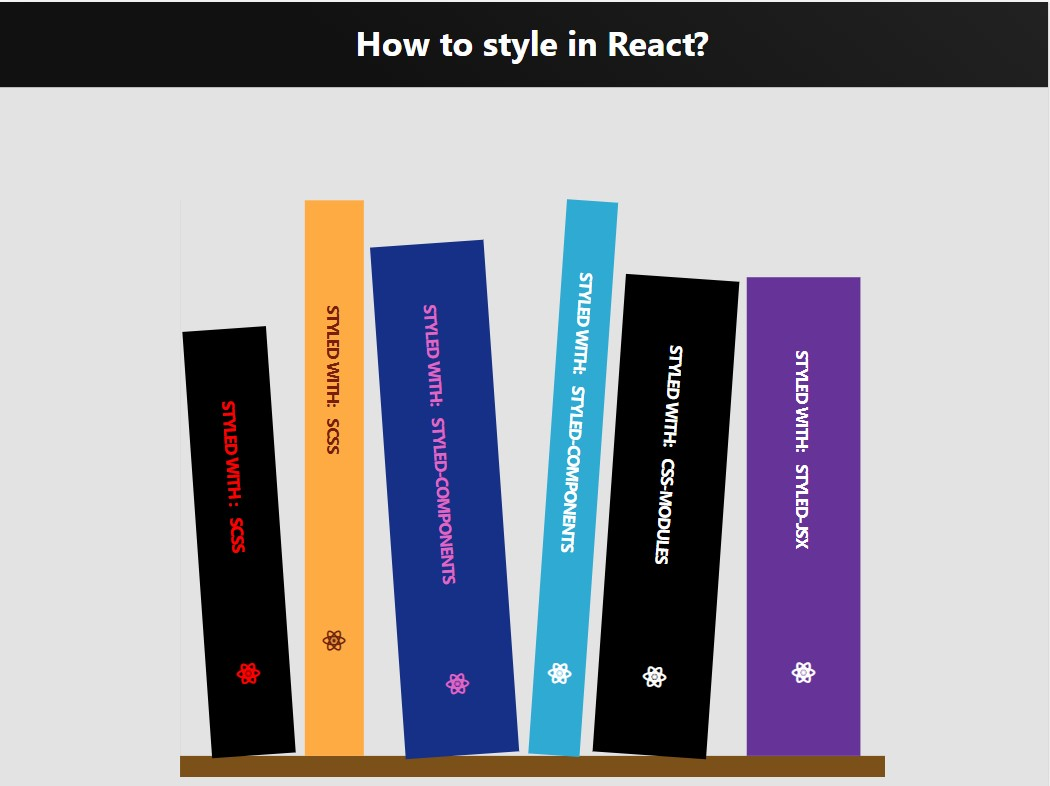
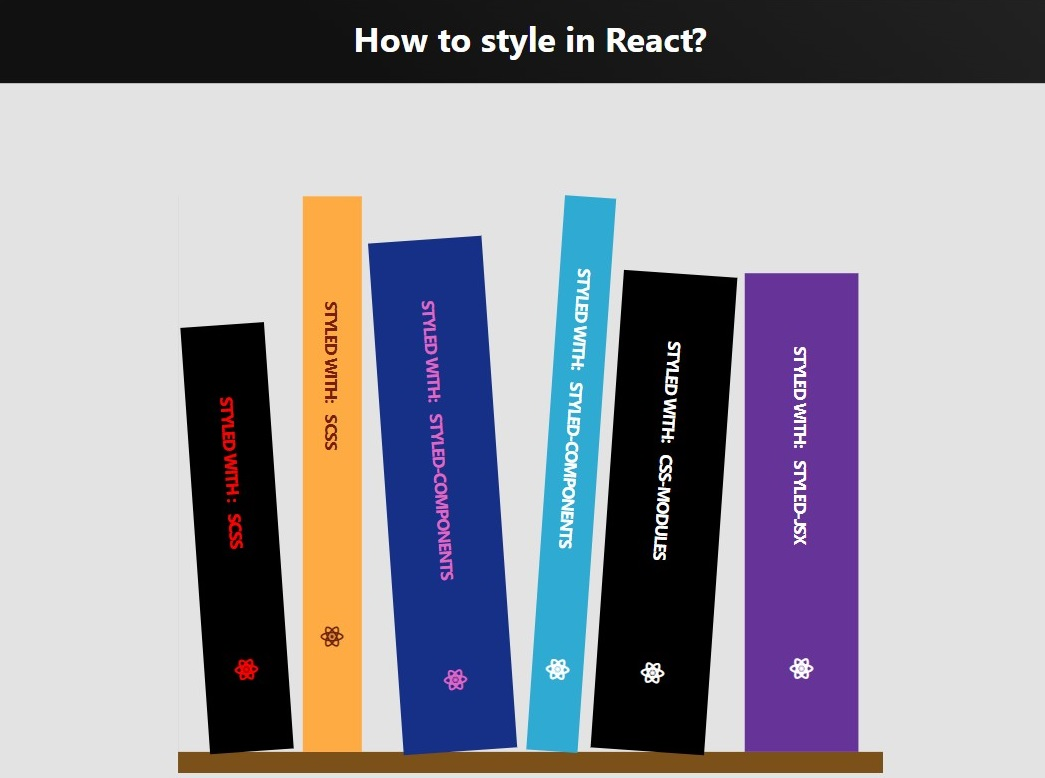
readme update

diff --git a/README.md b/README.md
@@ -5,7 +5,7 @@
 Different ways to style a React app.
 Comparing Scss, css-modules and two CSS-in-js libraries: styled-components and styled-jsx.
 
-![screenshot](https://user-images.githubusercontent.com/20776888/115065426-6a6f0d80-9eee-11eb-99bd-650cb3be219d.jpg)
+![screenshot](https://user-images.githubusercontent.com/20776888/115065961-24667980-9eef-11eb-8999-f71662811a24.jpg)
 
 ## Installation
 
